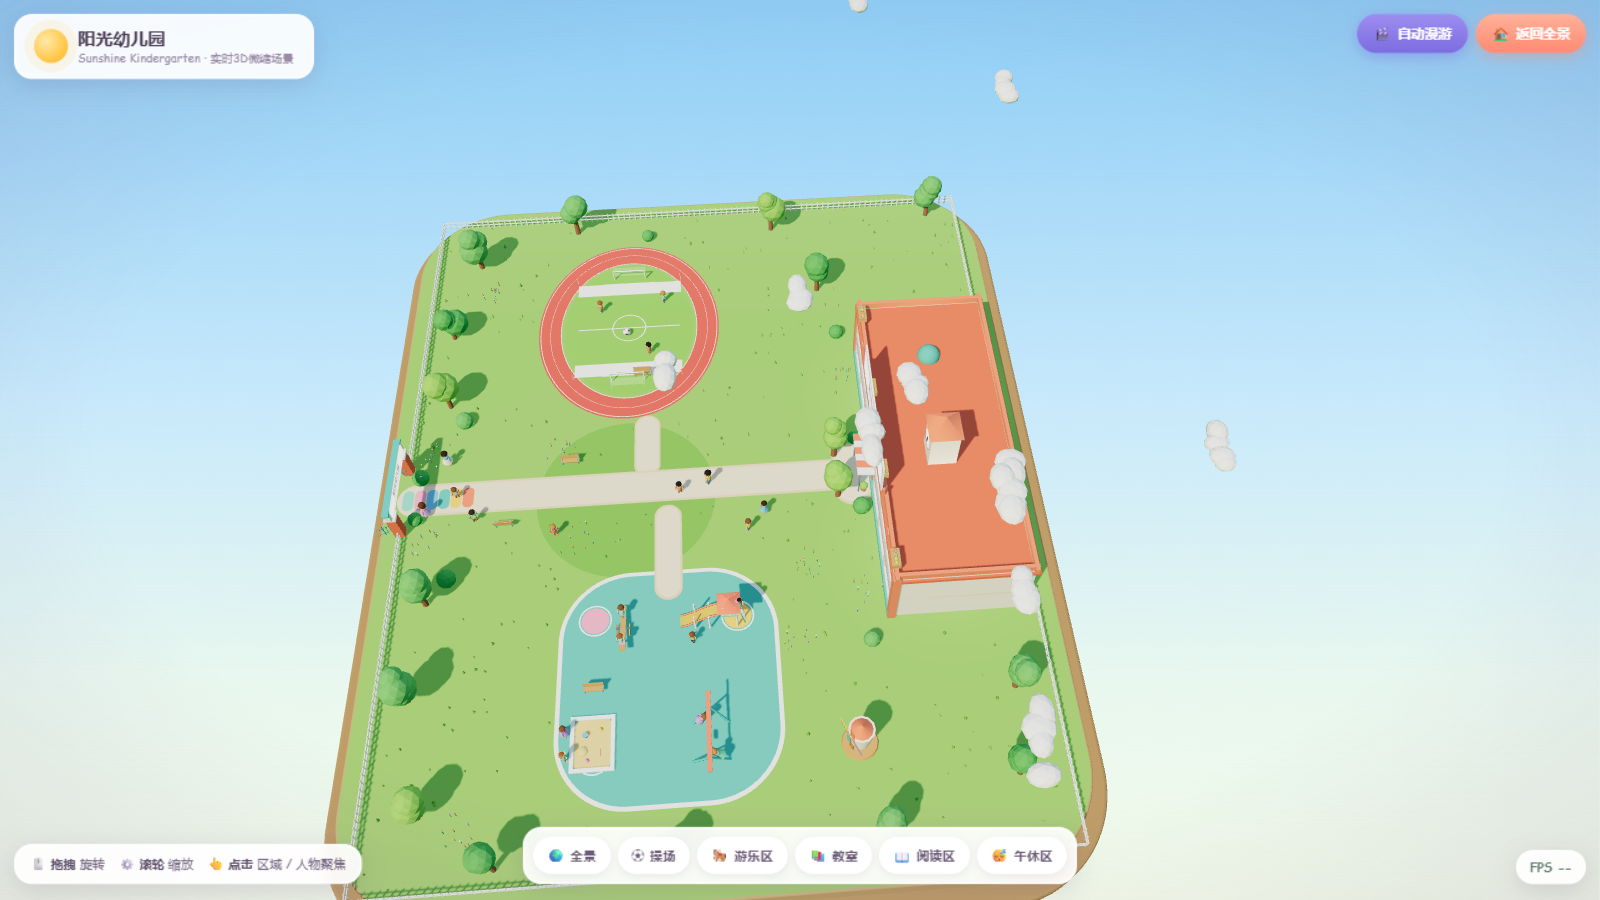
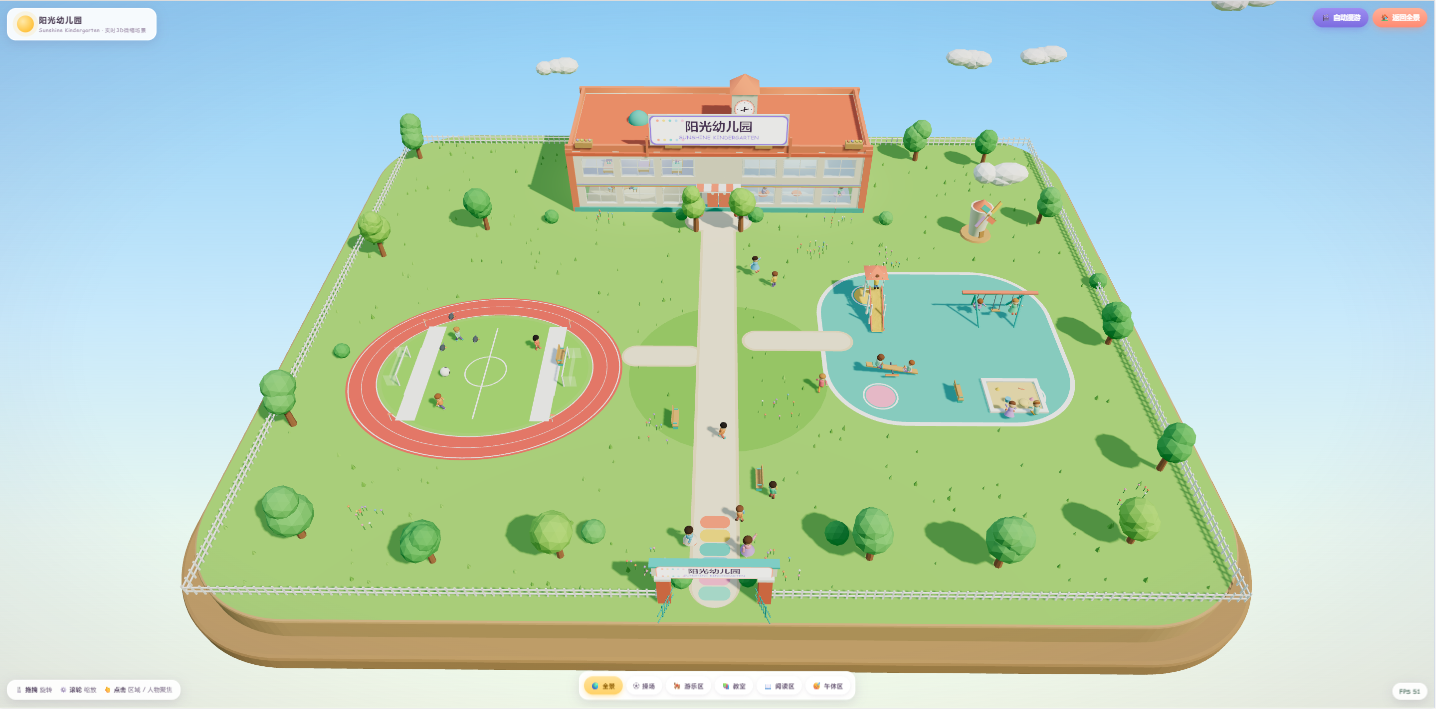
docs: replace README screenshot with user-captured panorama; show source prompt inline

diff --git a/README.md b/README.md
@@ -106,12 +106,9 @@ src/
 
 本项目由 **ZCode**（AI 编程智能体）使用 **GLM-5.2 max** 模型开发完成 —— 从下面这条源提示词出发，一键生成全部场景代码并调试至可运行状态。**Co-Author: ZCode**。
 
-<details>
-<summary>📖 点击展开：源提示词</summary>
+### 📖 源提示词
 
 > 基于Three.js+WebGL开发可在现代浏览器直接运行的实时3D动态幼儿园网页Demo，为可交互实时渲染Web3D场景，非静态图与预渲染视频，整体采用高质量低多边形卡通微缩画风，造型圆润柔和、光照明亮自然、阴影柔和、材质干净清新，贴合儿童动画质感，无写实风格与廉价Demo质感，打造真实运转的迷你童趣幼儿园场景。场景包含2-3层带彩色装饰与中英文标识的幼儿园主楼，大面积玻璃窗可展示室内桌椅与课堂活动，户外搭建精致微缩园区，涵盖草坪、塑胶操场、环形跑道、小型足球场、滑梯、秋千、跷跷板、沙坑、花草树木、长椅、围栏与校门，整体布局紧凑，单视角可预览大部分园区。场景内置15至25名卡通儿童及2至4名卡通老师，全员配备待机、行走、奔跑、静坐、玩耍、挥手、交谈、跳跃等基础动画，人物动作时间错开、互不重复，随机实现荡秋千、滑滑梯、踢球、沙坑玩耍、追逐跑动、草坪闲聊、师生散步、室内学习、举手答题、绘画阅读等多样动态行为。场景搭载自然舒缓的全局环境动画，包含草木随风摆动、云朵缓慢平移、秋千跷跷板自主运动、风车旋转、足球微动、小鸟间歇飞过、室内人物小幅活动，动态细腻不杂乱。镜头默认采用四分之三俯视等距视角，支持鼠标拖拽旋转、滚轮缩放，可点击操场、游乐区、教室、阅读区、午休区实现镜头平滑过渡聚焦，新增自动漫游功能，可按全景、操场、游乐区、教室、阅读区的路径自动循环巡航。交互上支持人物悬停与点击展示户外活动、绘画阅读、体育活动等无隐私信息标签，点击单个小朋友可让镜头平滑拉近观察，支持返回全景。项目纯前端实现，兼容Chrome、Edge浏览器，支持屏幕自适应，通过轻量化建模、实例化渲染、LOD层级优化、合理阴影配置与RAF动画机制保障流畅帧率，自带加载动画与平滑入场效果，全程规避穿模、人物漂浮、动作同步僵硬、镜头穿墙等问题，优先完成高视觉质量MVP，重点优化场景质感、园区布局、人物动态、镜头交互、环境动画与性能适配，呈现阳光清新、全程动态鲜活的真实幼儿园微缩场景效果。
-
-</details>
 
 ## 📄 开源协议
 
